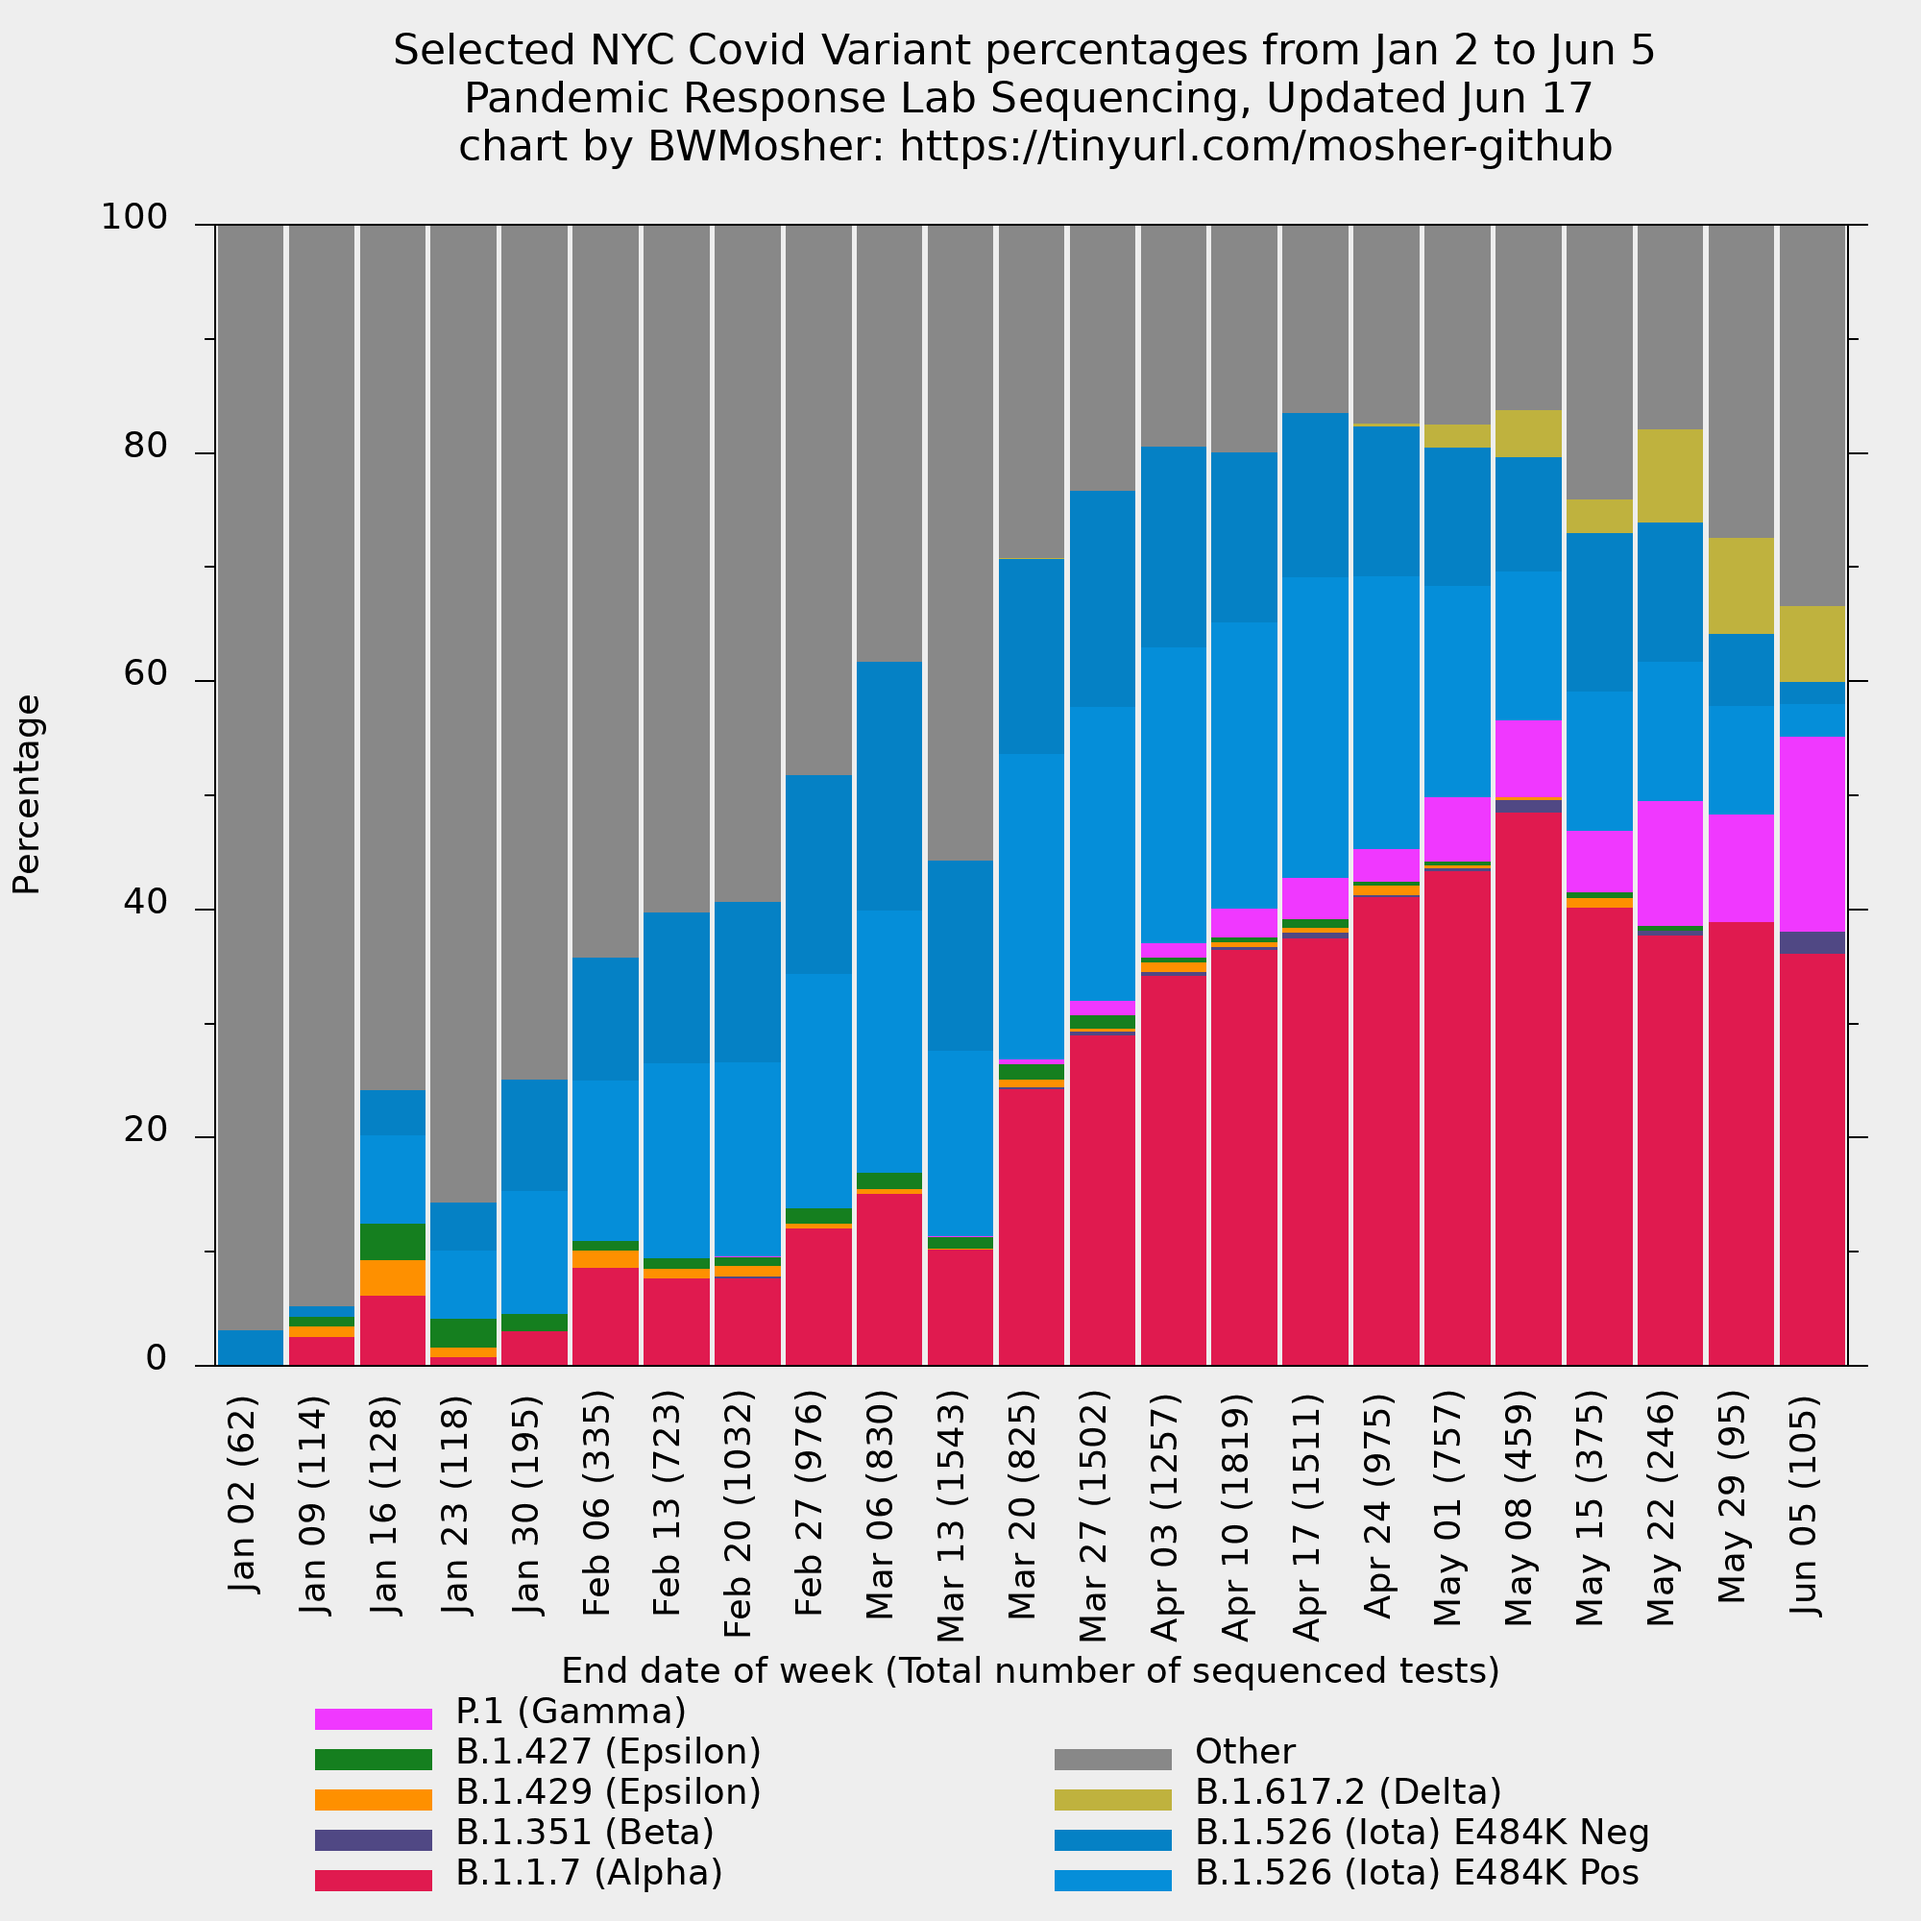
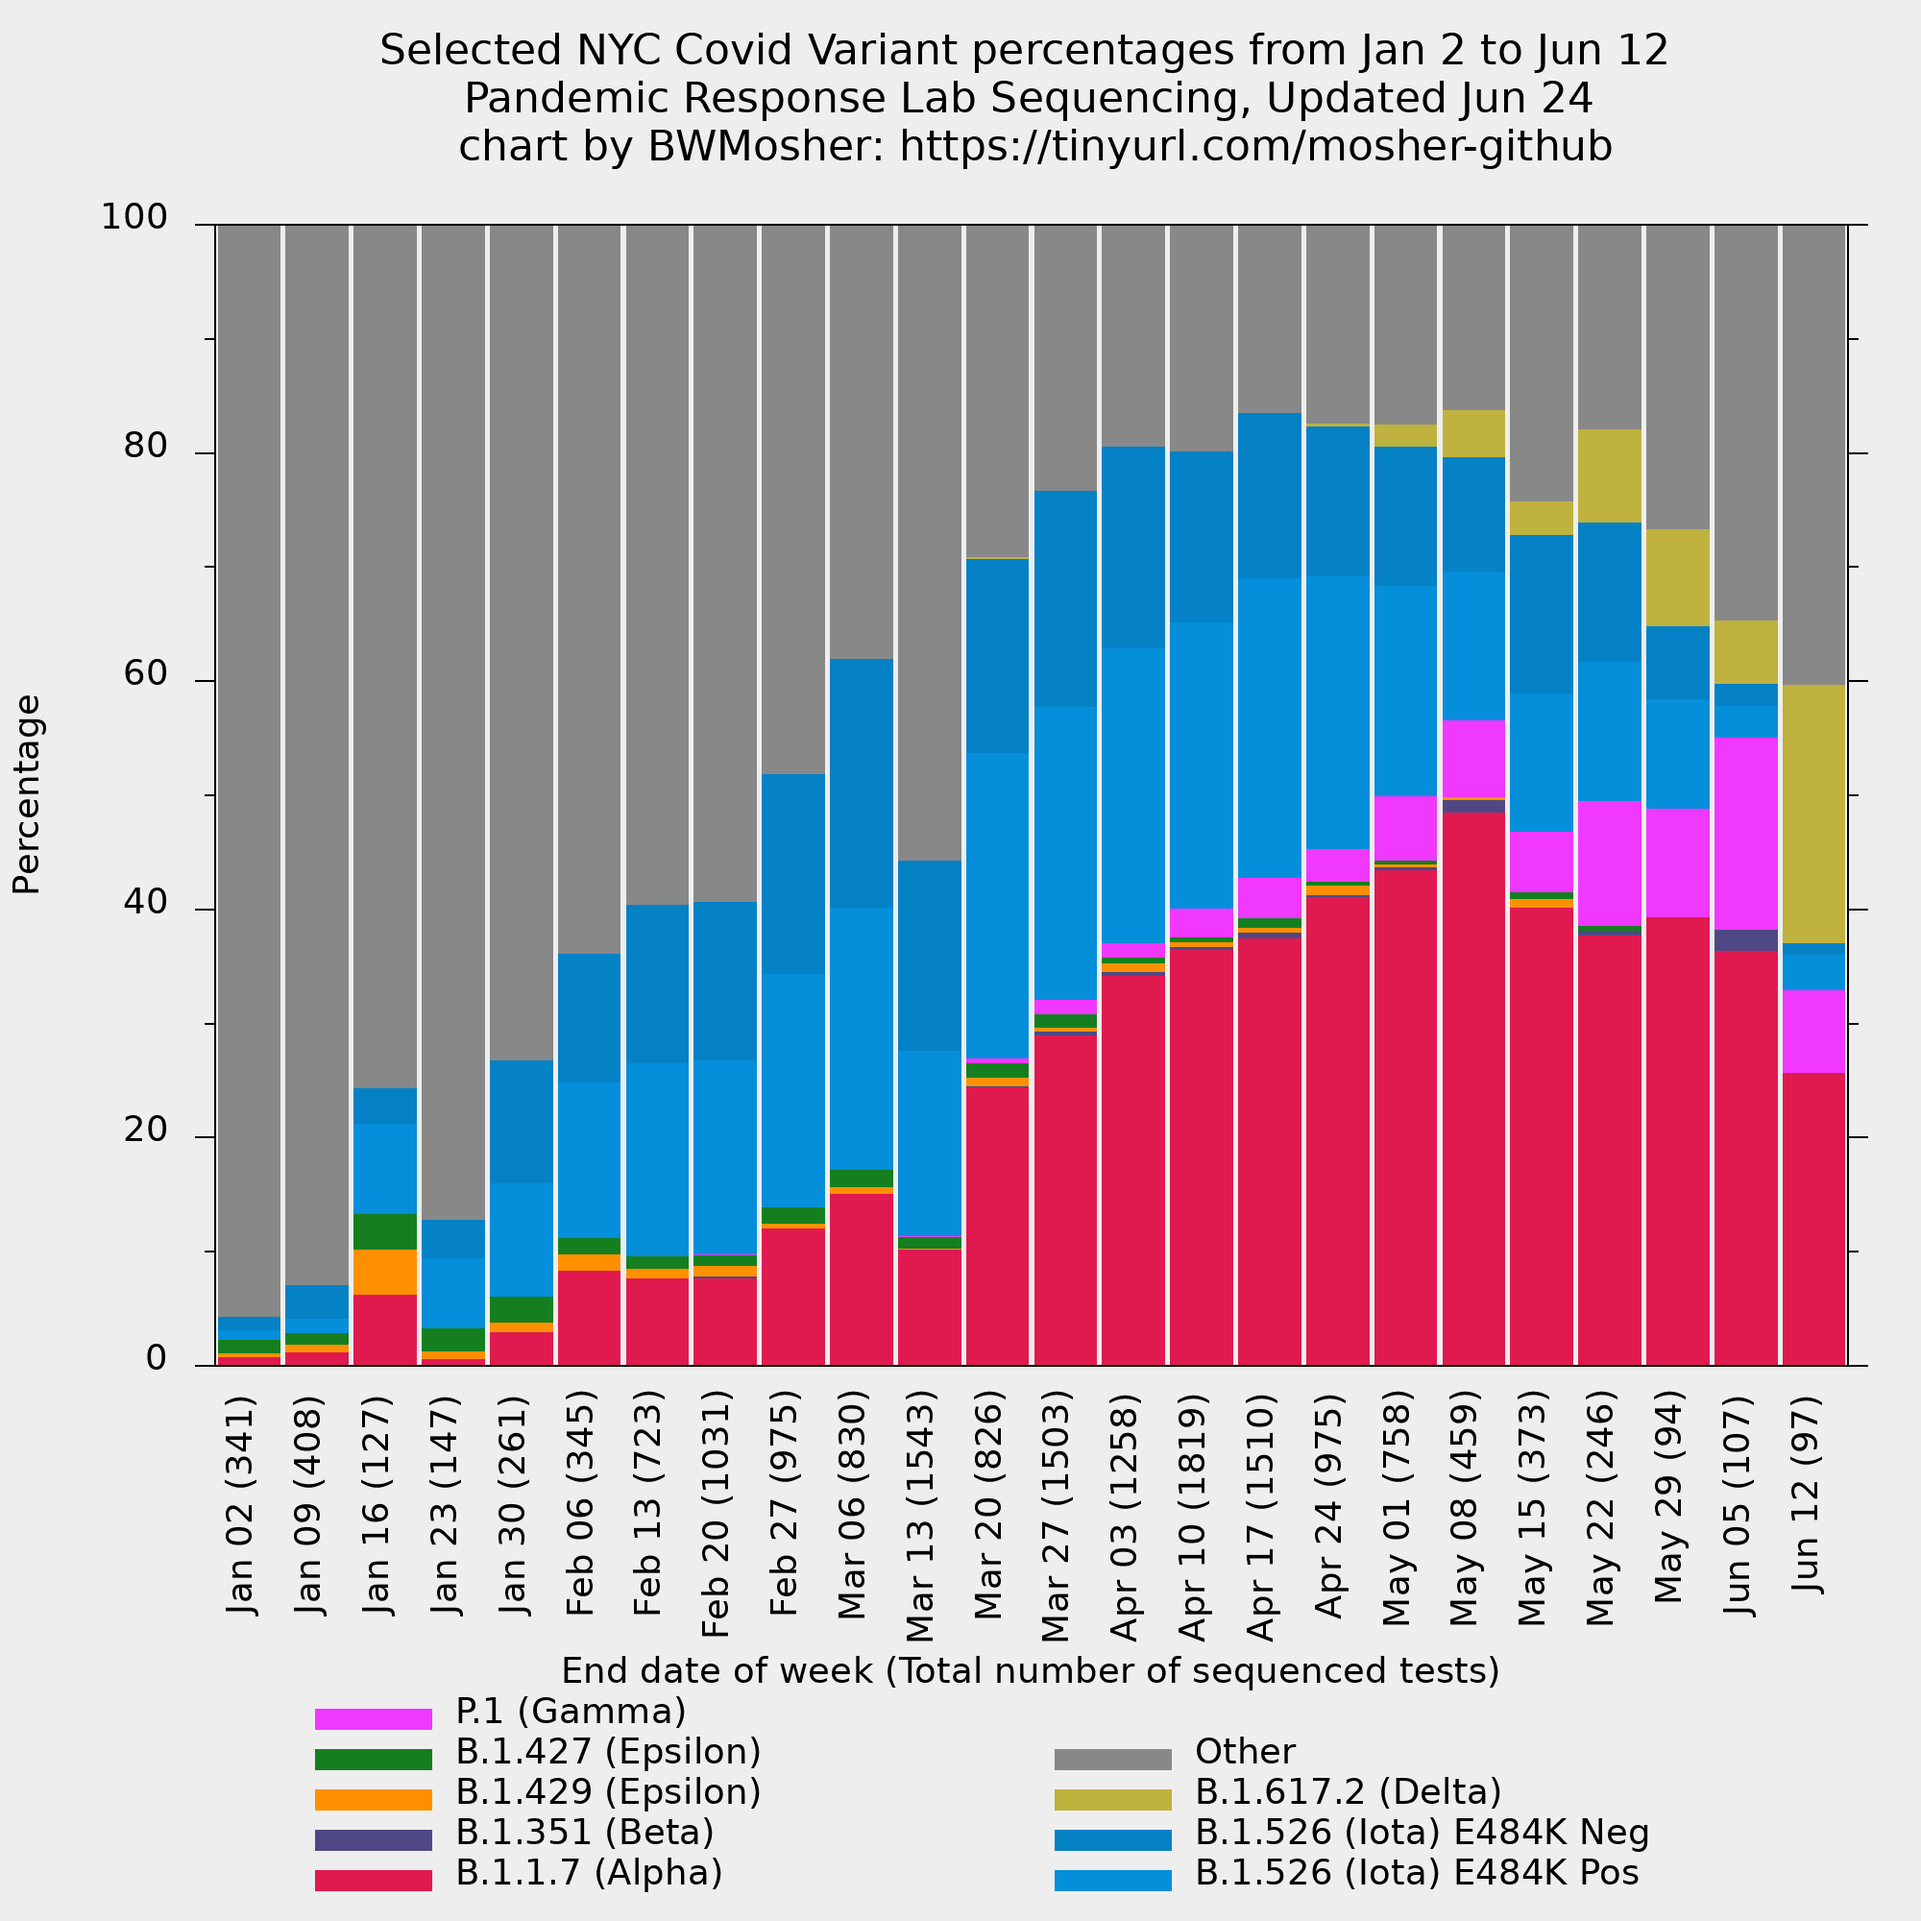
June 24 update

Changed region(s): [[0.093, 0.124, 0.961, 0.868], [0.186, 0.0, 0.868, 0.062]]

diff --git a/variants/visualization/README.md b/variants/visualization/README.md
@@ -21,7 +21,7 @@
 
 ## Images
 
-### The all strains graph from January 2nd to June 17th
+### The all strains graph from January 2nd to June 24th
 
 `all-weeks-plotted.png`
 
